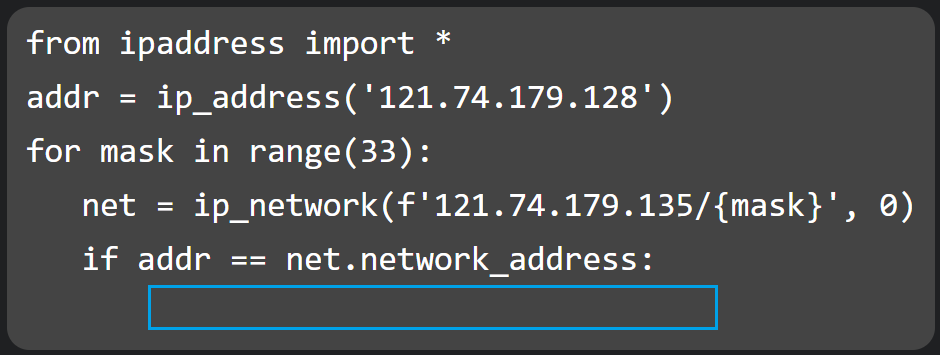
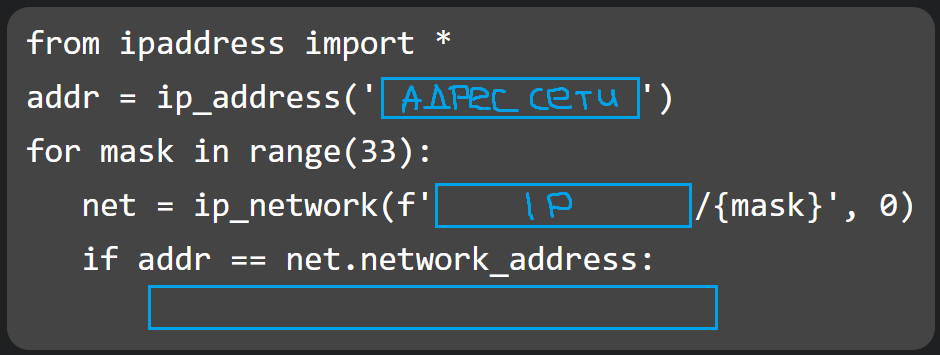
drag and drop

Changed region(s): [[0.4628, 0.4958, 0.7404, 0.6507], [0.4011, 0.2169, 0.6787, 0.3408]]

diff --git a/13.html b/13.html
@@ -46,11 +46,11 @@
 					if f'{ip:b}'
 				</div>
 			</div>
-			<div class="example-dropzone" ondragover="onDragOver(event);" ondrop="onDrop(event);">
+			<div class="example-dropzone example-dropzone-1" ondragover="onDragOver(event);" ondrop="onDrop(event);">
 				В эту область в правильном порядке
 			</div>
 		</div>
-		
+
 		<table>
 			<tr>
 				<th>IP адрес полный (например 192.168.32.48)</th>
@@ -184,6 +184,35 @@ print(k)</pre>
 
 		<h2>2 тип заданий (полный ip / адрес сети + условие)</h2>
 		<img src="13/2.png" alt="решение задач">
+
+		<div class="example-parent">
+			<div class="example-origin">
+				Перетащи элементы
+
+
+				<div id="draggable-8" class="example-draggable" draggable="true" ondragstart="onDragStart(event);">
+					for mask in range(33):
+				</div>
+				<div id="draggable-9" class="example-draggable" draggable="true" ondragstart="onDragStart(event);">
+					addr = ip_address('___.___.___.___')
+				</div>
+				<div id="draggable-10" class="example-draggable" draggable="true" ondragstart="onDragStart(event);">
+					if addr == net.network_address:
+				</div>
+				<div id="draggable-11" class="example-draggable" draggable="true" ondragstart="onDragStart(event);">
+					print()
+				</div>
+				<div id="draggable-12" class="example-draggable" draggable="true" ondragstart="onDragStart(event);">
+					net = ip_network(f'___.___.___.___/{mask}', 0)
+				</div>
+				<div id="draggable-13" class="example-draggable" draggable="true" ondragstart="onDragStart(event);">
+					from ipaddress import *
+				</div>
+			</div>
+			<div class="example-dropzone example-dropzone-2" ondragover="onDragOver(event);" ondrop="onDrop(event);">
+				В эту область в правильном порядке
+			</div>
+		</div>
 		<table>
 			<tr>
 				<th>IP адрес полный (например 192.168.32.48)</th>
@@ -281,6 +310,42 @@ for mask in range(33):
 		<p>11794 Сеть, в которой содержится узел с IP-адресом 223.167.A.167, задана маской сети 255.255.255.192, где A - некоторое допустимое для записи IP-адреса число. Определите максимальное значение
 			A, для которого для всех IP-адресов этой сети в двоичной записи IP-адреса суммарное количество нулей в левых двух байтах не больше суммарного количества нулей в правых двух байтах.
 			В ответе укажите только число.</p>
+		<img src="13/3.png" alt="решение задач">
+
+		<div class="example-parent">
+			<div class="example-origin">
+				Перетащи элементы
+
+
+    
+    
+       
+           
+           
+
+				<div id="draggable-14" class="example-draggable" draggable="true" ondragstart="onDragStart(event);">
+					print(A)
+				</div>
+				<div id="draggable-15" class="example-draggable" draggable="true" ondragstart="onDragStart(event);">
+					for A in range(256):
+				</div>
+				<div id="draggable-16" class="example-draggable" draggable="true" ondragstart="onDragStart(event);">
+					if net not in [net.network_address, net.broadcast_address]:
+				</div>
+				<div id="draggable-17" class="example-draggable" draggable="true" ondragstart="onDragStart(event);">
+					if all( f'{ip:b}'[:16].count('0') &#60;= f'{ip:b}'[16:].count('0') for ip in net):
+				</div>
+				<div id="draggable-18" class="example-draggable" draggable="true" ondragstart="onDragStart(event);">
+					from ipaddress import *
+				</div>
+				<div id="draggable-19" class="example-draggable" draggable="true" ondragstart="onDragStart(event);">
+					net = ip_network(f'___.___.{A}.___/___.___.___.___', 0)
+				</div>
+			</div>
+			<div class="example-dropzone example-dropzone-3" ondragover="onDragOver(event);" ondrop="onDrop(event);">
+				В эту область в правильном порядке
+			</div>
+		</div>
 		<pre>
 from ipaddress import *
 for A in range(256):
@@ -306,7 +371,7 @@ for mask in range(33):
                print(net.netmask)</pre>
 
 	</div>
-	
+
 	<style>
 		.example-parent {
 			margin-bottom: 48px;
@@ -332,15 +397,26 @@ for mask in range(33):
 		}
 
 		.example-dropzone {
-			min-height: 430px;
 			background-color: #444;
 			border-radius: 12px;
 			flex-basis: 100%;
 			flex-grow: 1;
 			padding: 10px;
 		}
+
+		.example-dropzone-1 {
+			min-height: 430px;
+		}
+
+		.example-dropzone-2 {
+			min-height: 340px;
+		}
+
+		.example-dropzone-3 {
+			min-height: 460px;
+		}
 	</style>
-	
+
 	<script>
 		function onDragStart(event) {
 			event
@@ -370,6 +446,4 @@ for mask in range(33):
 		}
 	</script>
 
-</body>
-
-</html>
+</body></html>

diff --git a/7.html b/7.html
@@ -72,19 +72,8 @@
 умножить на 0.73
 / 2**23</pre>
 		</div>
-
-		<div class="exercise">
-			<p></p>
-			<pre class="blur">
-</pre>
-		</div>
-
-		<div class="exercise">
-			<p></p>
-			<pre class="blur">
-</pre>
-		</div>
-
+		
+		<img src="7/1.png" alt="решение задачи">
 
 	</div>
 

diff --git a/15.html b/15.html
@@ -110,18 +110,6 @@ P = list(range(56, 79+1))
 Q = list(range(63, 85+1))</pre>
 		</div>
 
-		<div class="exercise">
-			<p></p>
-			<pre class="blur">
-</pre>
-		</div>
-
-		<div class="exercise">
-			<p></p>
-			<pre class="blur">
-</pre>
-		</div>
-
 	</div>
 
 </body></html>

diff --git a/8.html b/8.html
@@ -165,13 +165,6 @@ print(k/2)</pre>
 
 
 		<div class="exercise">
-			<p>2350 </p>
-			<pre class="blur">
-</pre>
-		</div>
-
-
-		<div class="exercise">
 			<p>четные и нечетные чередуются</p>
 			<pre class="blur">
 (s[i] + s[i+1])%2 != 0</pre>

diff --git a/style.css b/style.css
@@ -150,7 +150,7 @@ ul.tasks li:hover a {
 pre {
 	border-radius: 12px;
 	box-sizing: border-box;
-	font-size: 18px;
+	font-size: 22px;
 	line-height: 1.6;
 	margin: 0 0 24px 0;
 	padding: 5px 10px;

diff --git a/12.html b/12.html
@@ -103,12 +103,6 @@ print(s)
 </pre>
 		</div>
 
-
-		<div class="exercise">
-			<p>6044 </p>
-			<pre class="blur">
-</pre>
-		</div>
 	</div>
 
 </body></html>
